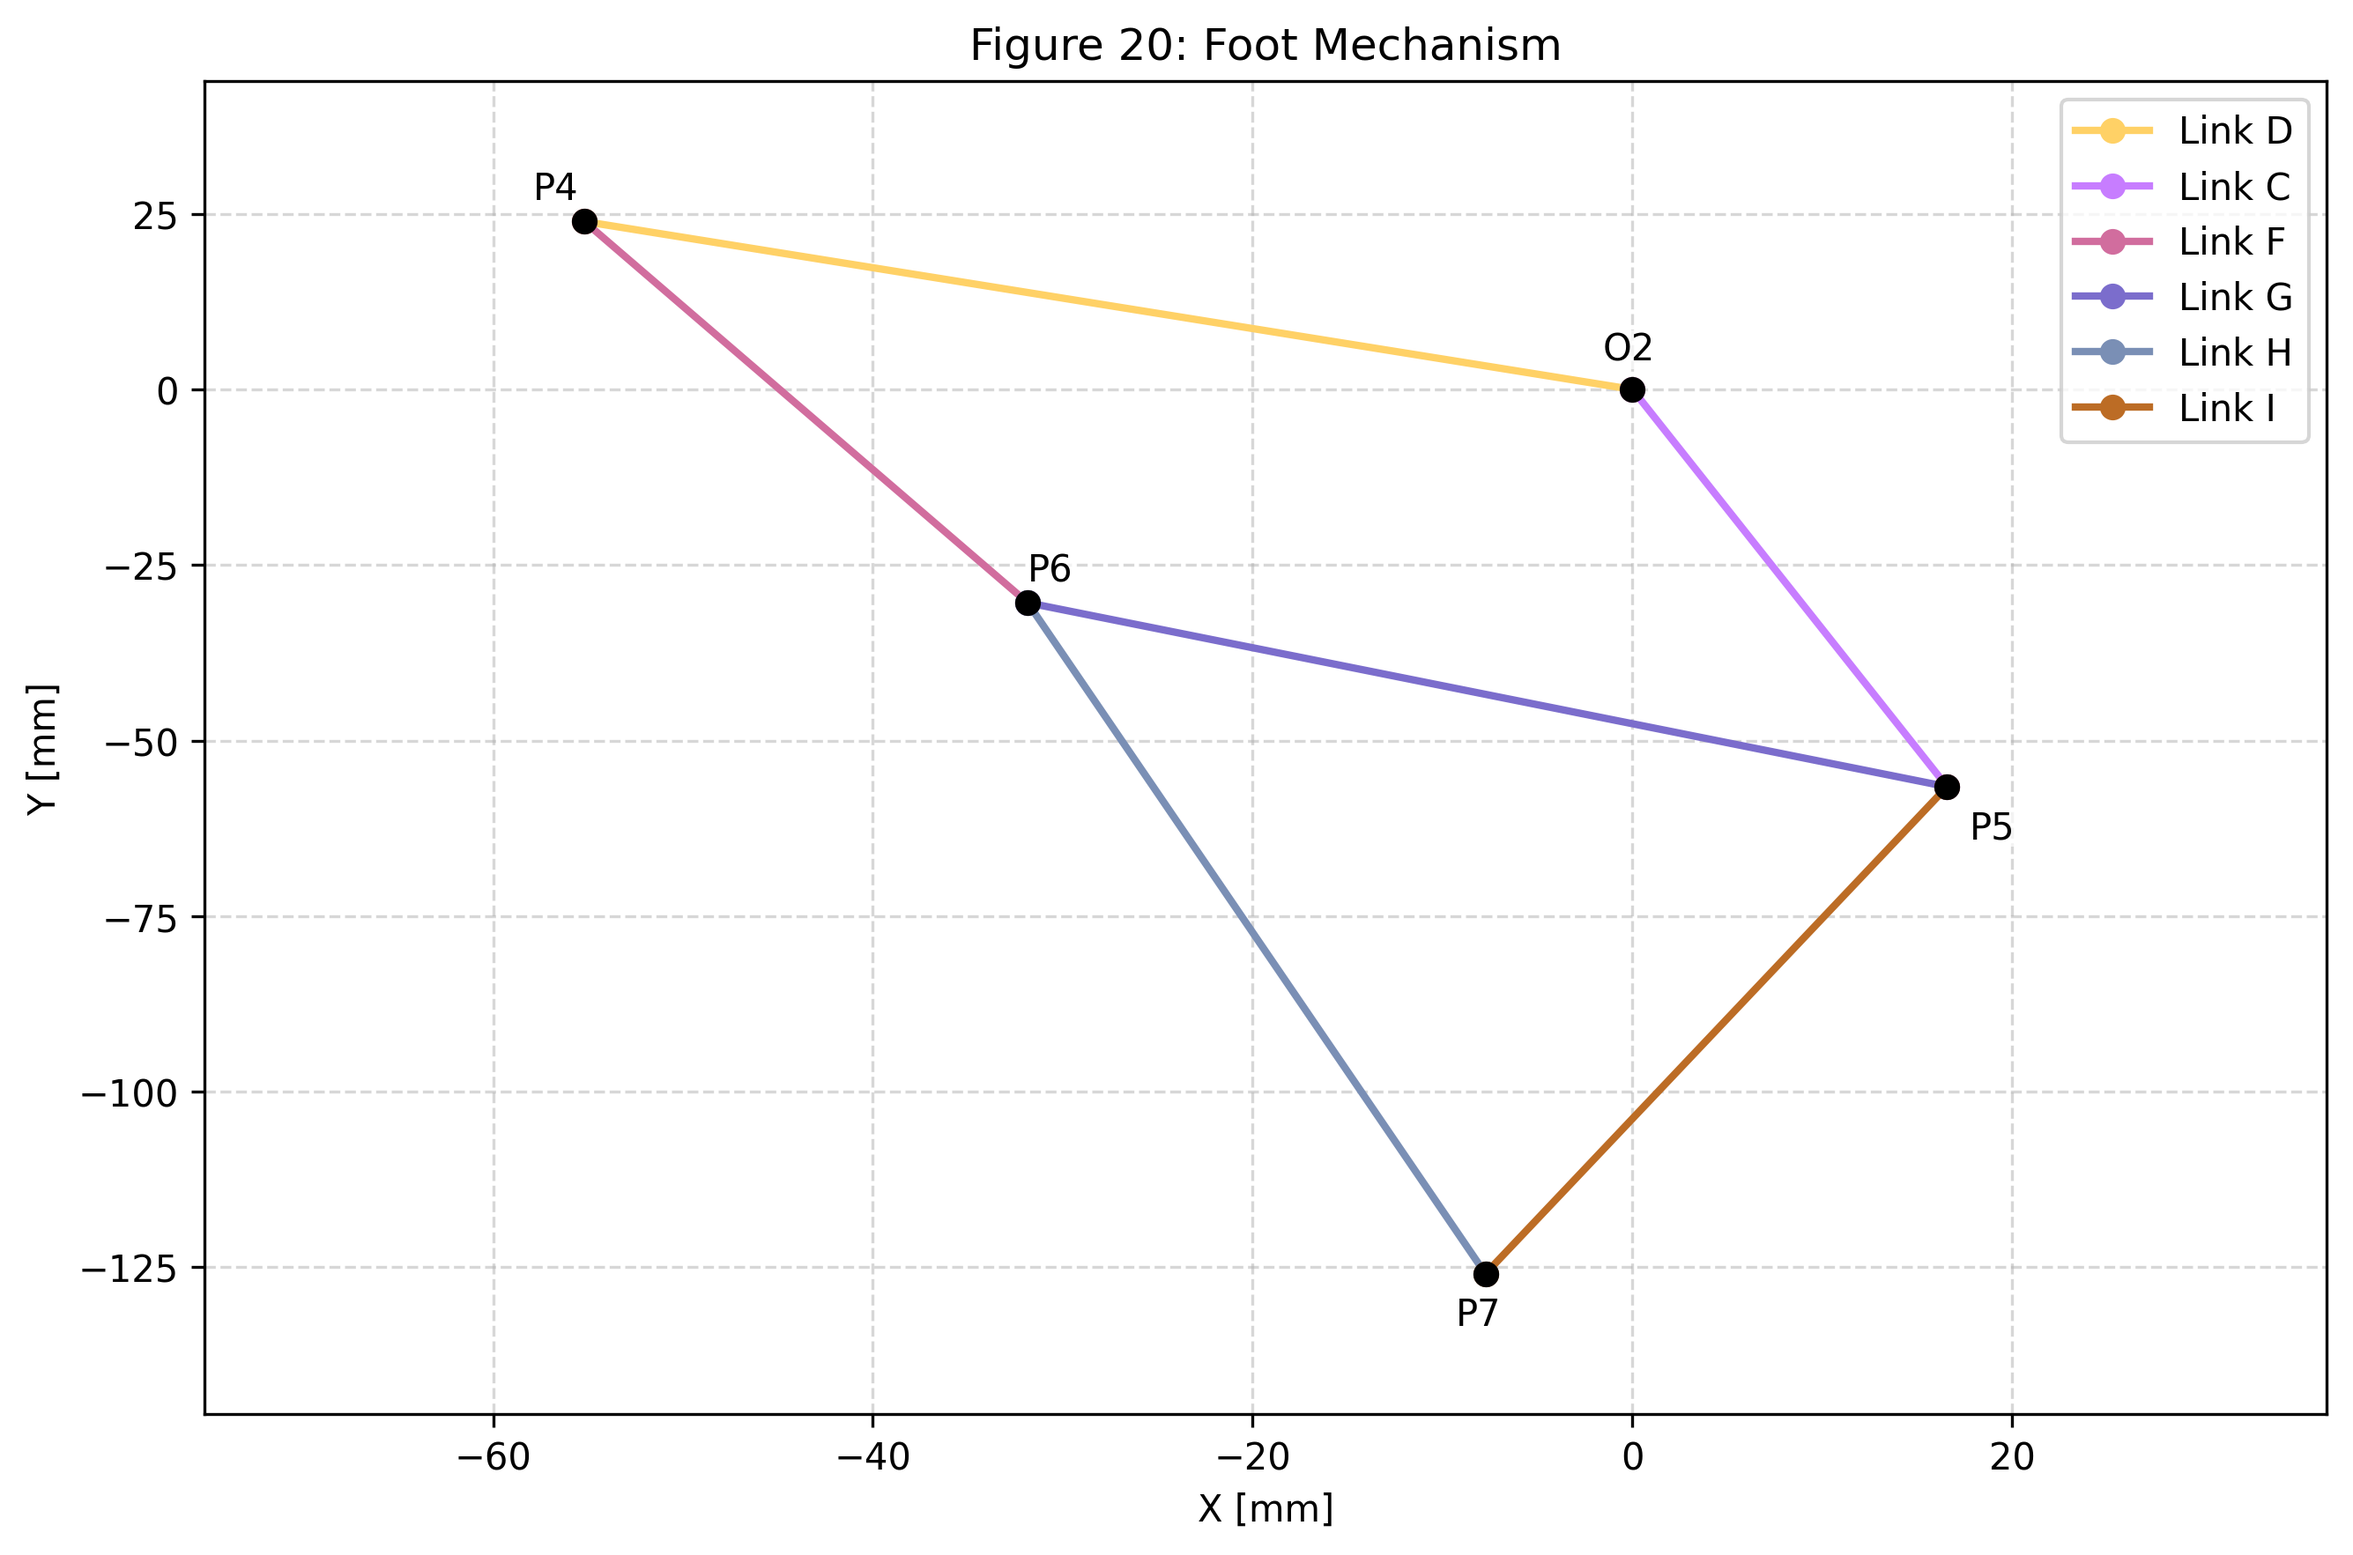
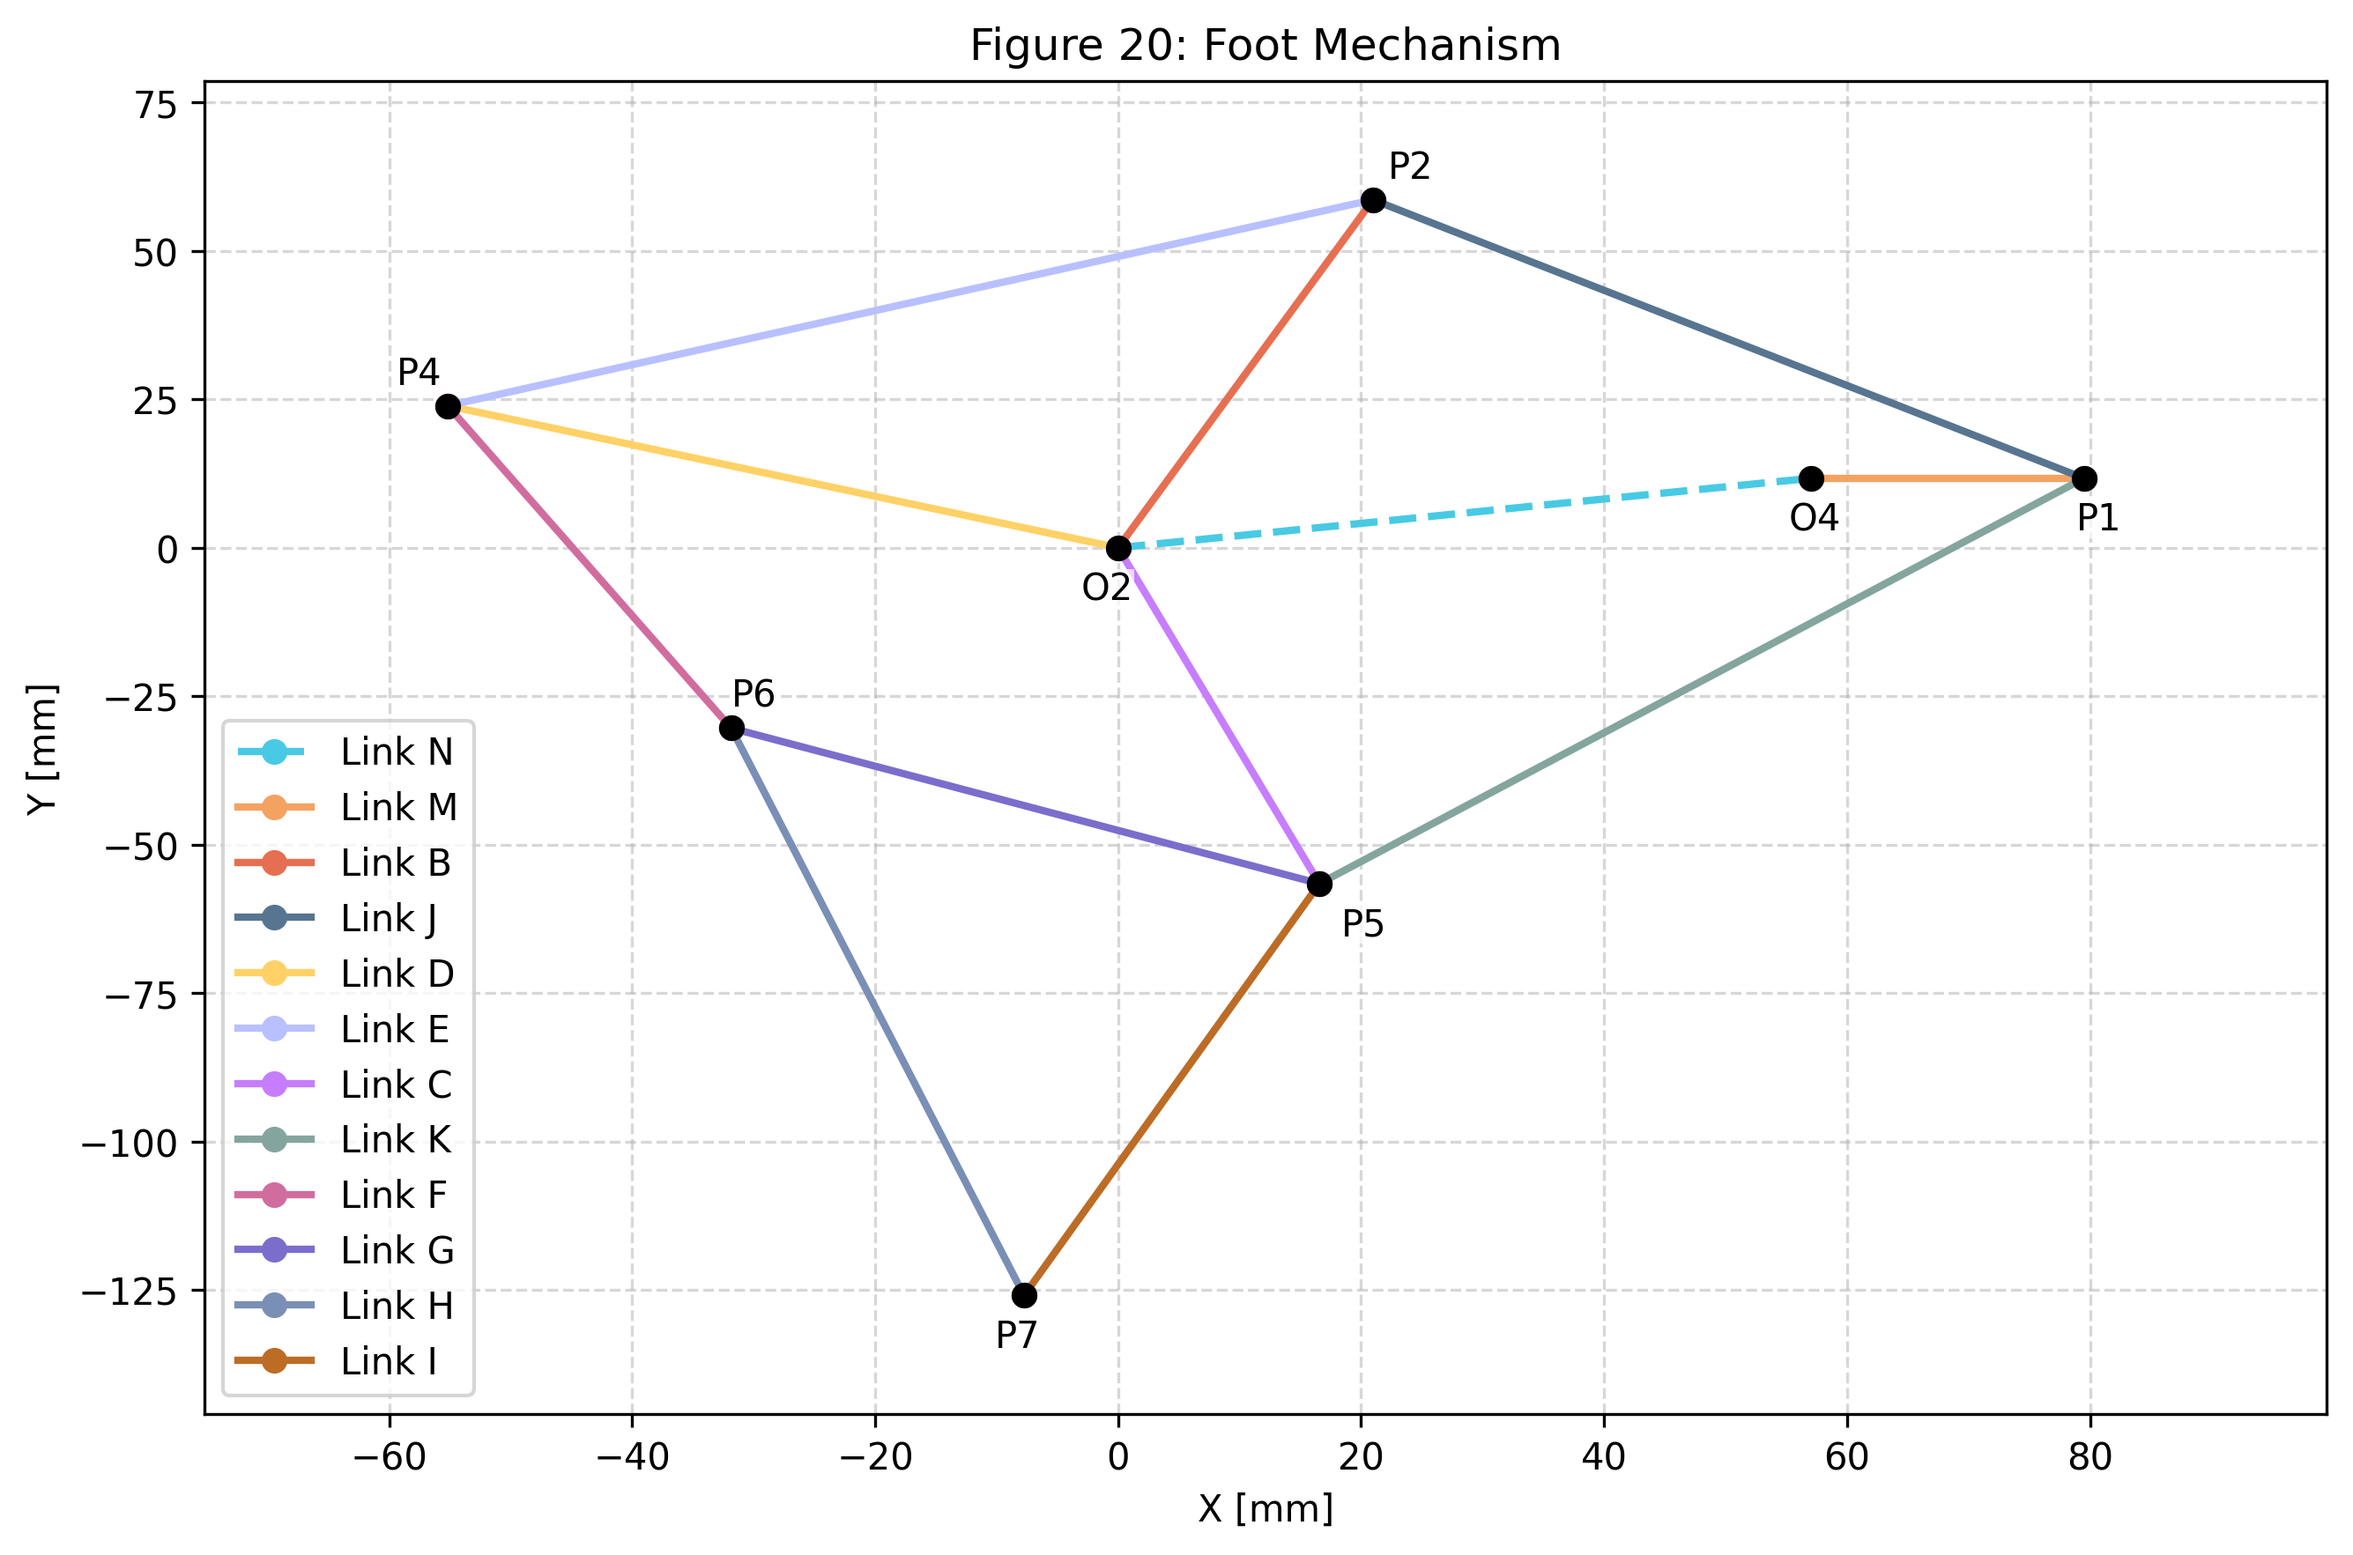
Updated P7 to include the whole mechanism

diff --git a/lib/_Position.py b/lib/_Position.py
@@ -58,7 +58,7 @@ def create_position_figures(O2 : np.ndarray, O4: np.ndarray, array_P1: np.ndarra
     p5_figures(figure_path, figure_names, O2, O4, array_P1, array_P5, crank_angle_plot)
     p4_figures(figure_path, figure_names, O2, O4, array_P1, array_P2, array_P4, crank_angle_plot)
     p6_figures(figure_path, figure_names, O2, O4, array_P1, array_P2, array_P4, array_P5, array_P6, array_P7, crank_angle_plot)
-    p7_figures(figure_path, figure_names, O2, array_P4, array_P5, array_P6, array_P7, crank_angle_plot)
+    p7_figures(figure_path, figure_names, O2, O4, array_P1, array_P2, array_P4, array_P5, array_P6, array_P7, crank_angle_plot)
     
     return figure_path, figure_names
 
@@ -715,8 +715,9 @@ def p6_figures(figure_path: list, figure_names: list, O2: np.ndarray, O4: np.nda
     figure_names.extend(["Rigid_Body_GHI", "P6_Position", "P6_x_Position", "P6_y_Position", "Parallel_Figure"]) 
     
     
-def p7_figures(figure_path: list, figure_names: list, O2: np.ndarray, array_P4: np.ndarray, array_P5: np.ndarray, 
-               array_P6: np.ndarray, array_P7: np.ndarray, crank_angle_plot: np.ndarray) -> tuple[list, list]:
+def p7_figures(figure_path: list, figure_names: list, O2: np.ndarray, O4 : np.ndarray, array_P1: np.ndarray, array_P2 : np.ndarray, 
+               array_P4: np.ndarray, array_P5: np.ndarray, array_P6: np.ndarray, array_P7: np.ndarray, 
+               crank_angle_plot: np.ndarray) -> tuple[list, list]:
     """
     Creates and appends the position figure for point P6 to the provided lists.
     
@@ -724,6 +725,9 @@ def p7_figures(figure_path: list, figure_names: list, O2: np.ndarray, array_P4: 
         figure_path (list): List to store Matplotlib figure objects.
         figure_names (list): List to store figure file names.
         O2 (np.ndarray): Fixed ground pivot O2.
+        O4 (np.ndarray): Fixed ground pivot O4.
+        array_P1 (np.ndarray): Point P1 position array.
+        array_P2 (np.ndarray): Point P2 position array.
         array_P4 (np.ndarray): Point P4 position array.
         array_P5 (np.ndarray): Point P5 position array.
         array_P6 (np.ndarray): Point P6 position array.
@@ -735,50 +739,90 @@ def p7_figures(figure_path: list, figure_names: list, O2: np.ndarray, array_P4: 
         title="Figure 20: Foot Mechanism",
         
         links=[
-        {
-            "point_1": O2,
-            "point_2": array_P4[0],
-            "label": "Link D",
-            "color": _plot.LINK_D_COLOR,
-        },
-        {
-            "point_1": O2,
-            "point_2": array_P5[0],
-            "label": "Link C",
-            "color": _plot.LINK_C_COLOR,
-        },
-        {
-            "point_1": array_P4[0],
-            "point_2": array_P6[0],
-            "label": "Link F",
-            "color": _plot.LINK_F_COLOR,
-        },
-        {
-            "point_1": array_P5[0],
-            "point_2": array_P6[0],
-            "label": "Link G",
-            "color": _plot.LINK_G_COLOR,
-        },
-        {
-            "point_1": array_P6[0],
-            "point_2": array_P7[0],
-            "label": "Link H",
-            "color": _plot.LINK_H_COLOR,
-        },
-        {
-            "point_1": array_P5[0],
-            "point_2": array_P7[0],
-            "label": "Link I",
-            "color": _plot.LINK_I_COLOR,
-        },
+            {
+                "point_1": O2,
+                "point_2": O4,
+                "label": "Link N",
+                "color": _plot.LINK_N_COLOR,
+                "linestyle": _plot.LINK_N_LINE_STYLE,
+            },
+            {
+                "point_1": O4,
+                "point_2": array_P1[0],
+                "label": "Link M",
+                "color": _plot.LINK_M_COLOR,
+            },
+            {
+                "point_1": O2,
+                "point_2": array_P2[0],
+                "label": "Link B",
+                "color": _plot.LINK_B_COLOR,
+            },
+            {
+                "point_1": array_P1[0],
+                "point_2": array_P2[0],
+                "label": "Link J",
+                "color": _plot.LINK_J_COLOR,
+            },
+            {
+                "point_1": O2,
+                "point_2": array_P4[0],
+                "label": "Link D",
+                "color": _plot.LINK_D_COLOR,
+            },
+            {
+                "point_1": array_P4[0],
+                "point_2": array_P2[0],
+                "label": "Link E",
+                "color": _plot.LINK_E_COLOR,
+            },
+            {
+                "point_1": O2,
+                "point_2": array_P5[0],
+                "label": "Link C",
+                "color": _plot.LINK_C_COLOR,
+            },
+            {
+                "point_1": array_P1[0],
+                "point_2": array_P5[0],
+                "label": "Link K",
+                "color": _plot.LINK_K_COLOR,
+            },
+            {
+                "point_1": array_P4[0],
+                "point_2": array_P6[0],
+                "label": "Link F",
+                "color": _plot.LINK_F_COLOR,
+            },
+            {
+                "point_1": array_P5[0],
+                "point_2": array_P6[0],
+                "label": "Link G",
+                "color": _plot.LINK_G_COLOR,
+            },
+            {
+                "point_1": array_P6[0],
+                "point_2": array_P7[0],
+                "label": "Link H",
+                "color": _plot.LINK_H_COLOR,
+            },
+            {
+                "point_1": array_P5[0],
+                "point_2": array_P7[0],
+                "label": "Link I",
+                "color": _plot.LINK_I_COLOR,
+            },
         ],
 
         points=[
-            {"point": O2, "label": "O2", "x_offset": -8, "y_offset": 8},
+            {"point": O2, "label": "O2", "x_offset": -10, "y_offset": -14},
+            {"point": O4, "label": "O4", "x_offset": -6,  "y_offset": -14},
+            {"point": array_P1[0], "label": "P1", "x_offset": -2, "y_offset": -14},
+            {"point": array_P2[0], "label": "P2", "x_offset": 4, "y_offset": 6},
             {"point": array_P4[0], "label": "P4", "x_offset": -14, "y_offset": 6},
-            {"point": array_P5[0], "label": "P5", "x_offset": 6,   "y_offset": -14},
+            {"point": array_P5[0], "label": "P5", "x_offset": 6, "y_offset": -14},
             {"point": array_P6[0], "label": "P6", "x_offset": 0, "y_offset": 6},
-            {"point": array_P7[0], "label": "P7", "x_offset": -8,  "y_offset": -14},
+            {"point": array_P7[0], "label": "P7", "x_offset": -8, "y_offset": -14},
         ],
 
         paths = None,
@@ -791,50 +835,90 @@ def p7_figures(figure_path: list, figure_names: list, O2: np.ndarray, array_P4: 
         title="Figure 21: Point P7 Position",
 
         links=[
-        {
-            "point_1": O2,
-            "point_2": array_P4[0],
-            "label": "Link D",
-            "color": _plot.LINK_D_COLOR,
-        },
-        {
-            "point_1": O2,
-            "point_2": array_P5[0],
-            "label": "Link C",
-            "color": _plot.LINK_C_COLOR,
-        },
-        {
-            "point_1": array_P4[0],
-            "point_2": array_P6[0],
-            "label": "Link F",
-            "color": _plot.LINK_F_COLOR,
-        },
-        {
-            "point_1": array_P5[0],
-            "point_2": array_P6[0],
-            "label": "Link G",
-            "color": _plot.LINK_G_COLOR,
-        },
-        {
-            "point_1": array_P6[0],
-            "point_2": array_P7[0],
-            "label": "Link H",
-            "color": _plot.LINK_H_COLOR,
-        },
-        {
-            "point_1": array_P5[0],
-            "point_2": array_P7[0],
-            "label": "Link I",
-            "color": _plot.LINK_I_COLOR,
-        },
+            {
+                "point_1": O2,
+                "point_2": O4,
+                "label": "Link N",
+                "color": _plot.LINK_N_COLOR,
+                "linestyle": _plot.LINK_N_LINE_STYLE,
+            },
+            {
+                "point_1": O4,
+                "point_2": array_P1[0],
+                "label": "Link M",
+                "color": _plot.LINK_M_COLOR,
+            },
+            {
+                "point_1": O2,
+                "point_2": array_P2[0],
+                "label": "Link B",
+                "color": _plot.LINK_B_COLOR,
+            },
+            {
+                "point_1": array_P1[0],
+                "point_2": array_P2[0],
+                "label": "Link J",
+                "color": _plot.LINK_J_COLOR,
+            },
+            {
+                "point_1": O2,
+                "point_2": array_P4[0],
+                "label": "Link D",
+                "color": _plot.LINK_D_COLOR,
+            },
+            {
+                "point_1": array_P4[0],
+                "point_2": array_P2[0],
+                "label": "Link E",
+                "color": _plot.LINK_E_COLOR,
+            },
+            {
+                "point_1": O2,
+                "point_2": array_P5[0],
+                "label": "Link C",
+                "color": _plot.LINK_C_COLOR,
+            },
+            {
+                "point_1": array_P1[0],
+                "point_2": array_P5[0],
+                "label": "Link K",
+                "color": _plot.LINK_K_COLOR,
+            },
+            {
+                "point_1": array_P4[0],
+                "point_2": array_P6[0],
+                "label": "Link F",
+                "color": _plot.LINK_F_COLOR,
+            },
+            {
+                "point_1": array_P5[0],
+                "point_2": array_P6[0],
+                "label": "Link G",
+                "color": _plot.LINK_G_COLOR,
+            },
+            {
+                "point_1": array_P6[0],
+                "point_2": array_P7[0],
+                "label": "Link H",
+                "color": _plot.LINK_H_COLOR,
+            },
+            {
+                "point_1": array_P5[0],
+                "point_2": array_P7[0],
+                "label": "Link I",
+                "color": _plot.LINK_I_COLOR,
+            },
         ],
 
         points=[
-            {"point": O2, "label": "O2", "x_offset": -8, "y_offset": 8},
+            {"point": O2, "label": "O2", "x_offset": -10, "y_offset": -14},
+            {"point": O4, "label": "O4", "x_offset": -6,  "y_offset": -14},
+            {"point": array_P1[0], "label": "P1", "x_offset": -2, "y_offset": -14},
+            {"point": array_P2[0], "label": "P2", "x_offset": 4, "y_offset": 6},
             {"point": array_P4[0], "label": "P4", "x_offset": -14, "y_offset": 6},
-            {"point": array_P5[0], "label": "P5", "x_offset": 6,   "y_offset": -14},
+            {"point": array_P5[0], "label": "P5", "x_offset": 6, "y_offset": -14},
             {"point": array_P6[0], "label": "P6", "x_offset": 0, "y_offset": 6},
-            {"point": array_P7[0], "label": "P7", "x_offset": -8,  "y_offset": -14},
+            {"point": array_P7[0], "label": "P7", "x_offset": -8, "y_offset": -14},
         ],
 
         paths=[
